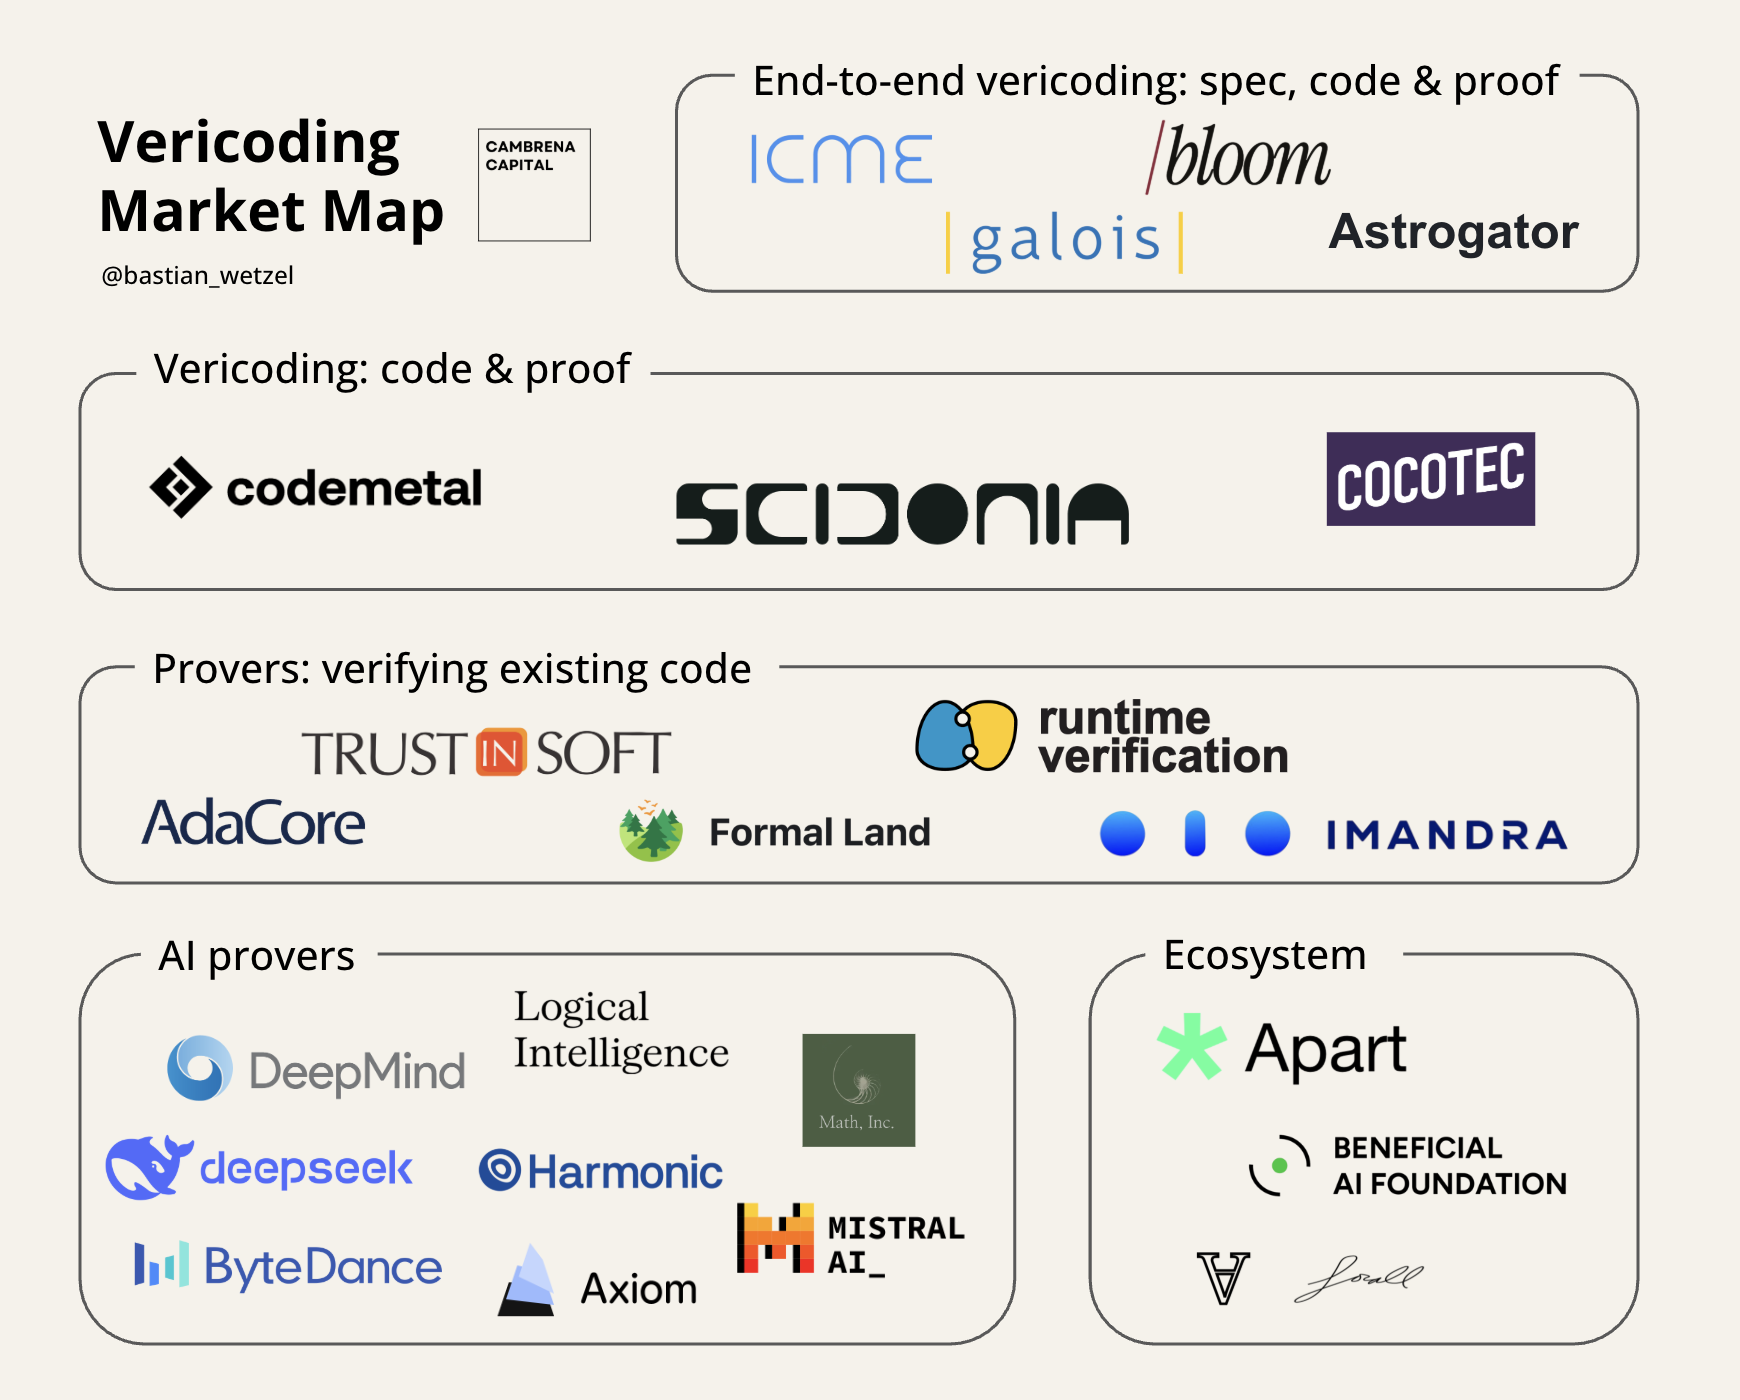
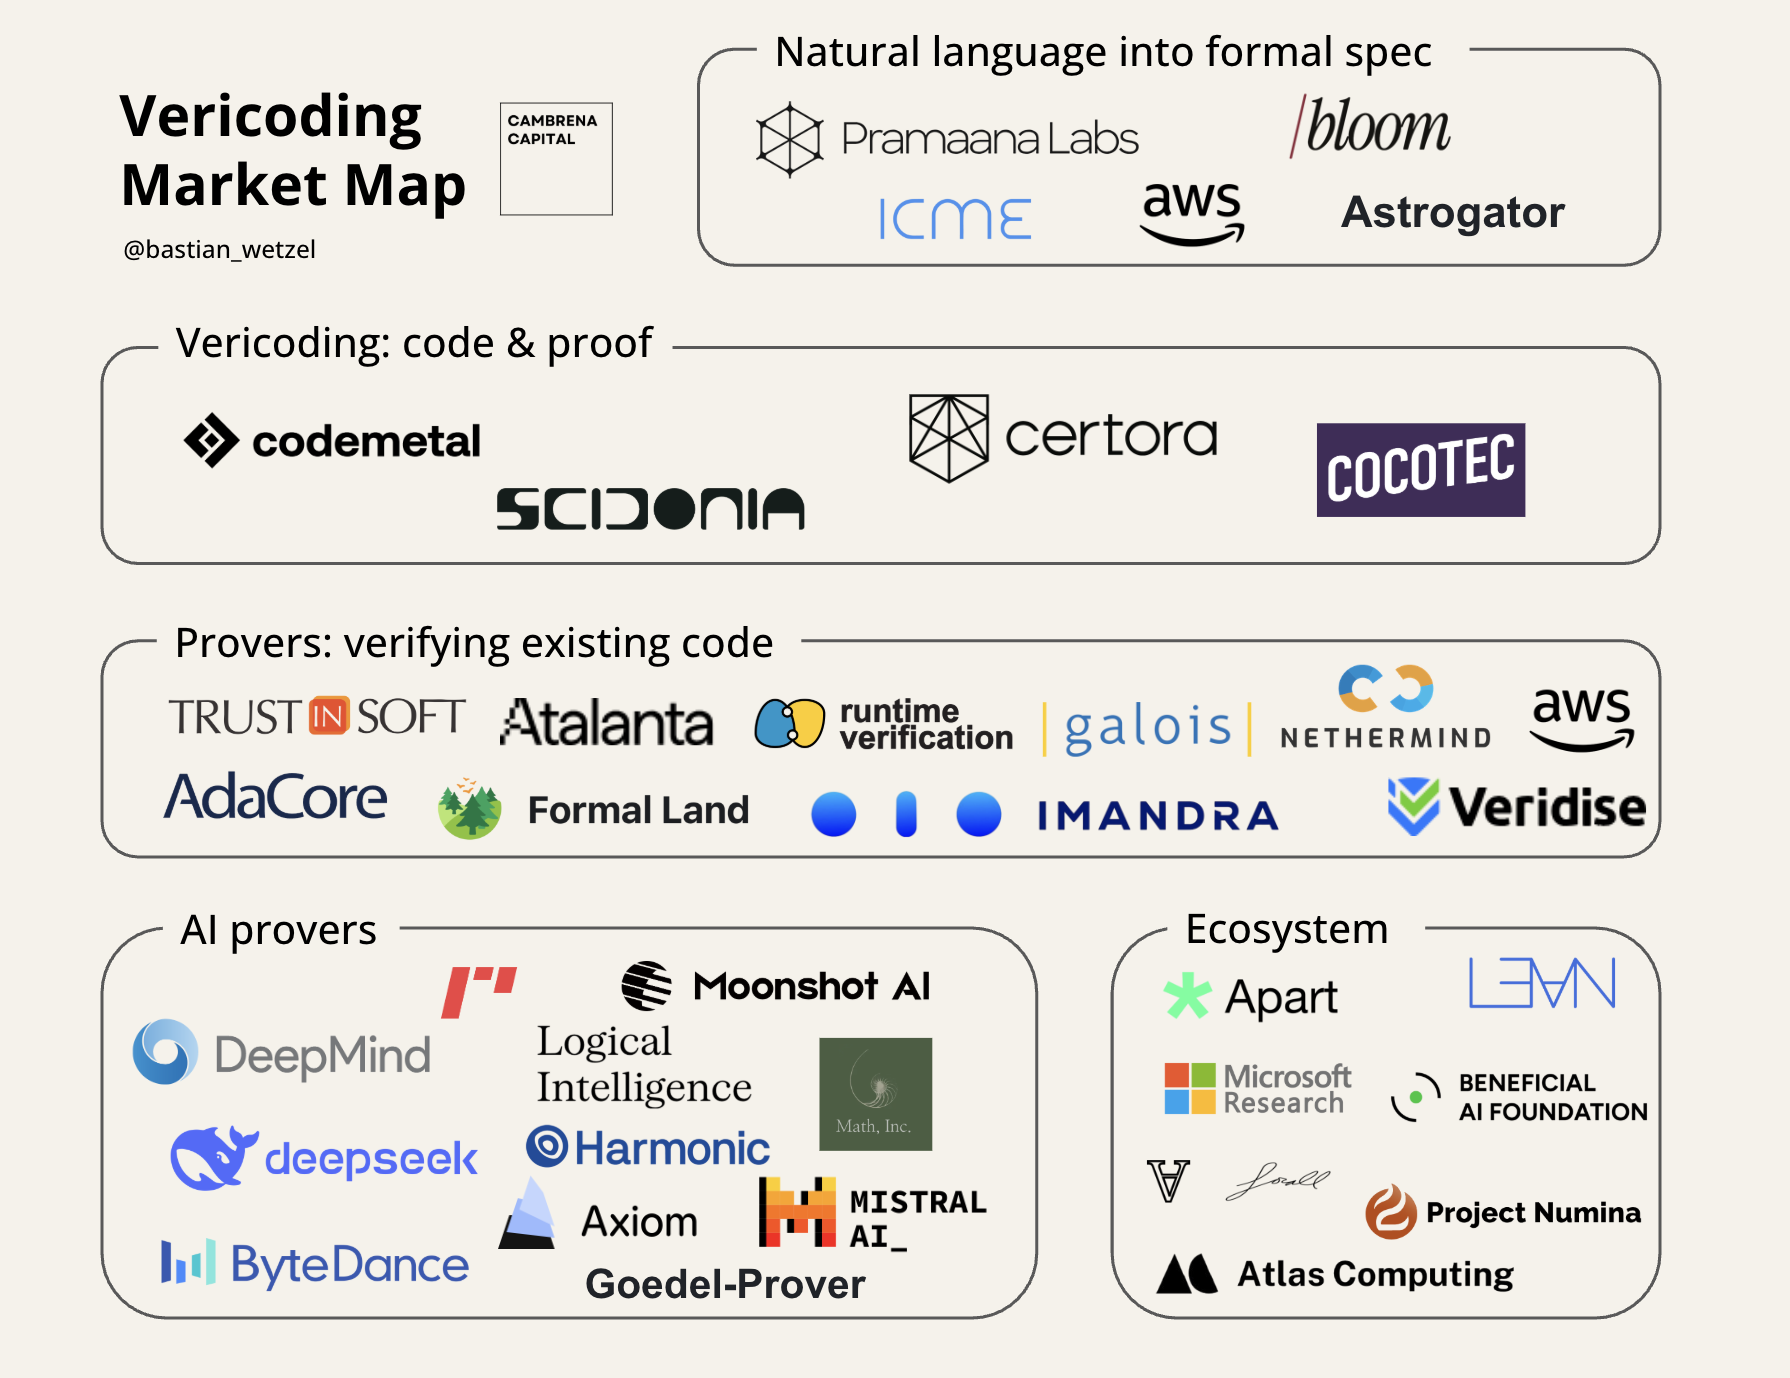
updated vericoding article

diff --git a/src/content/writing/vericoding.md b/src/content/writing/vericoding.md
@@ -144,23 +144,23 @@ The map is organized along the Spec → Code → Proof pipeline.
 
 ### AI provers
 
-Companies building the AI that writes the proof itself, given a goal already stated in formal logic. These are the engines much of the rest of the map depends on: AlphaProof (Google DeepMind), [Aristotle](https://aristotle.harmonic.fun/) (Harmonic), [Seed-Prover](https://seed.bytedance.com/en/blog/seed-prover-1-5-advanced-mathematical-reasoning-through-a-novel-agentic-architecture) (ByteDance), [Axiom](https://axiommath.ai/), Mistral AI’s Leanstral, [Math Inc.](https://www.math.inc/), [DeepSeek-Prover](https://arxiv.org/abs/2504.21801), and [Aleph](https://logicalintelligence.com/aleph-coding-ai/) (Logical Intelligence), whose energy-based approach stands somewhat apart.
+Companies building the AI that writes the proof itself, given a goal already stated in formal logic. These are the engines much of the rest of the map depends on: AlphaProof (Google DeepMind), [Seed-Prover](https://seed.bytedance.com/en/blog/seed-prover-1-5-advanced-mathematical-reasoning-through-a-novel-agentic-architecture) (ByteDance), Mistral AI’s Leanstral, [DeepSeek-Prover](https://arxiv.org/abs/2504.21801), [Kimina Prover](https://github.com/MoonshotAI/Kimina-Prover-Preview) (Numina & Moonshot AI), [Goedel-Prover](https://goedel-lm.github.io/), core AI math startups like [Aristotle](https://aristotle.harmonic.fun/) (Harmonic), [Math Inc.](https://www.math.inc/), [Axiom](https://axiommath.ai/), or [Morph Labs](https://www.morph.so/), and [Aleph](https://logicalintelligence.com/aleph-coding-ai/) (Logical Intelligence), whose energy-based approach stands somewhat apart.
 
-### End-to-end vericoding: natural language into formal spec, code and proof
+### Natural language into formal spec
 
-AI that turn ambiguous human intent into a precise formal specification, code, and proof. [ICME](https://blog.icme.io/)’s PreFlight converts natural-language policies into formal logic checked by an SMT solver and wrapped in a cryptographic proof. [Galois](https://www.galois.com/ai-for-formal-methods) envisions a workflow in which a designer refines a specification with an AI assistant through natural language, moving from an incomplete state to one that supports formal verification. [Bloom](https://bloom.directory/) is built on the premise that specs are public, with other humans and agents incentivized to find gaps and propose better invariants. [Astrogator](https://arxiv.org/abs/2507.13290) proposes a knowledge base to capture system-specific dependencies and reduce the system knowledge needed to express formal queries.
+AI that turns ambiguous human intent into a precise formal specification. [Pramaana Labs](https://pramaanalabs.ai/) recently announced a $27M Seed round led by Khosla Ventures in June 2026 to bring formal verification to AI in high-stake verticals. [ICME](https://blog.icme.io/)’s PreFlight converts natural-language policies into formal logic checked by an SMT solver and wrapped in a cryptographic proof. [Bloom](https://bloom.directory/) is built on the premise that specs are public, with other humans and agents incentivized to find gaps and propose better invariants. [Astrogator](https://arxiv.org/abs/2507.13290) proposes a knowledge base to capture system-specific dependencies and reduce the system knowledge needed to express formal queries. [AWS](https://docs.aws.amazon.com/bedrock/latest/userguide/guardrails-automated-reasoning-checks.html)’s Automated Reasoning checks (Bedrock Guardrails), which extracts formal logic rules from a customer’s policy document and then mathematically validates LLM responses against them; shipping as a hyperscaler product.
 
 ### Vericoding: AI generates verified code from a spec
 
-Companies where you supply the formal spec and the AI synthesizes both the implementation and its proof, such as [Code Metal](https://www.codemetal.ai/), Cocotec or Scidonia which combines LLMs with symbolic reasoning and formal constraints for high-stakes domains where mistakes are irreversible.
+Companies where you supply the formal spec and the AI synthesizes both the implementation and its proof. [Certora](https://www.certora.com/) is probably the leading smart-contract formal verification company and recently launched AI Composer, an AI coding platform that runs every AI-generated snippet through its formal verification engine before execution, such as [Code Metal](https://www.codemetal.ai/), Cocotec or Scidonia which combine LLMs with symbolic reasoning and formal constraints for high-stakes domains where mistakes are irreversible.
 
 ### Provers: verifying existing code
 
-Companies that prove properties about code that already exists rather than generating anything new. This is the established formal-methods industry now adding AI: AdaCore, TrustInSoft, [Runtime Verification](https://runtimeverification.com/), [Formal Land](https://formal.land/), or [Imandra](https://www.imandra.ai/).
+Companies that prove properties about code that already exists rather than generating anything new. This is the established formal-methods industry now adding AI: AdaCore, TrustInSoft, [Runtime Verification](https://runtimeverification.com/), [Galois](https://www.galois.com/ai-for-formal-methods), [Formal Land](https://formal.land/), Veridise, [Nethermind](https://www.nethermind.io/formal-verification), [Imandra](https://www.imandra.ai/) or [AWS](https://aws.amazon.com/security/provable-security/)’s Automated Reasoning Group (Zelkova, Kani, Cedar) with arguably the largest industrial deployment anywhere.
 
 ### Ecosystem, research, and nonprofits
 
-Organizations that build the shared infrastructure, benchmarks, and open proofs the commercial layers draw on, rather than selling a product, such as [Apart Research](https://apartresearch.com/), [Beneficial AI Foundation](https://www.beneficialaifoundation.org/), or Forall R&D.
+Organizations that build the shared infrastructure, benchmarks, and open proofs the commercial layers draw on, rather than selling a product, such as [Lean FRO](https://lean-lang.org/fro/), [Project Numina](https://projectnumina.ai/), [Apart Research](https://apartresearch.com/), [Beneficial AI Foundation](https://www.beneficialaifoundation.org/), [Atlas Computing](https://atlascomputing.org/), Forall R&D or [Microsoft Research](https://www.microsoft.com/en-us/research/), birthplace of Z3, F*, Dafny, and Lean, and still the source of much of the infrastructure the commercial layers run on.
 
 ![](./public/vericoding_makret_map.png)
 
@@ -182,4 +182,6 @@ Each verified component is also a permanent public good. Unlike proprietary soft
 
 *If you are building something in vericoding or formal verification, or using it in production, please reach out!*
 
-*Many thanks to [Valeriy Zamaraiev](https://x.com/valeryz), [Wyatt Benno](https://x.com/wyatt_benno) and [Gavin Pacini](https://x.com/GavinPacini) for conversations around this topic.*
+*Many thanks to [Valeriy Zamaraiev](https://x.com/valeryz), [Wyatt Benno](https://x.com/wyatt_benno), [Bogdan Stanciu](https://x.com/bog_dan), and [Gavin Pacini](https://x.com/GavinPacini) for conversations around this topic.*
+
+*You could follow me on [X](https://x.com/bastian_wetzel) and [LinkedIn](https://www.linkedin.com/in/bastian-wetzel/).*
